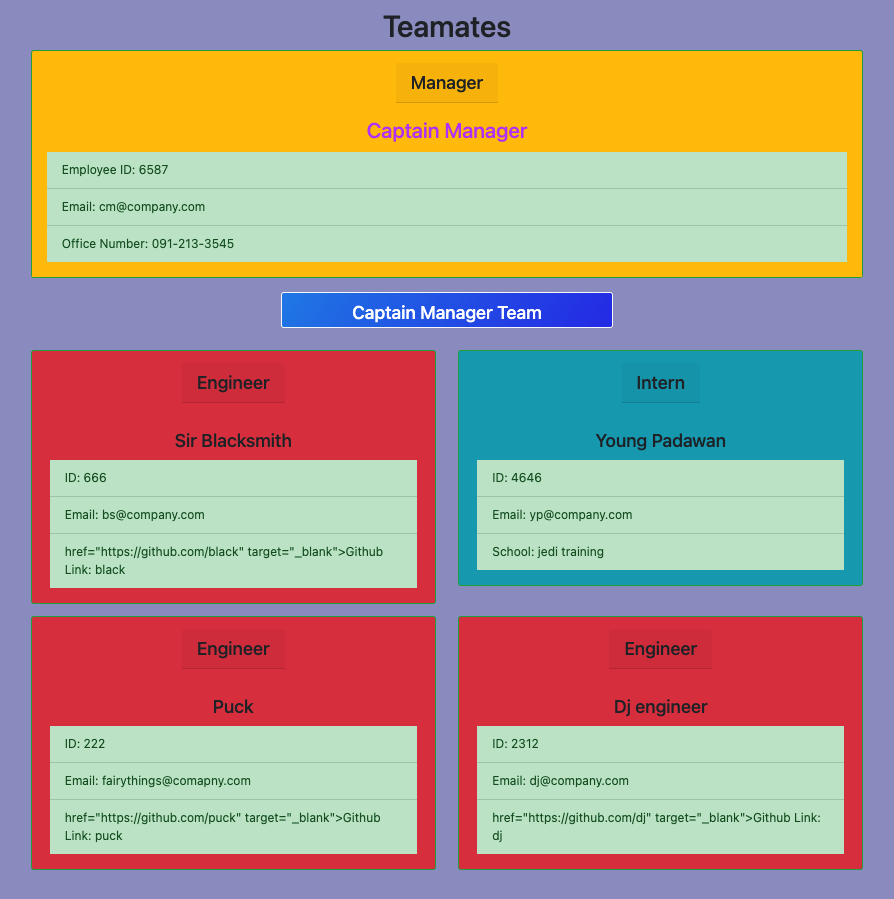
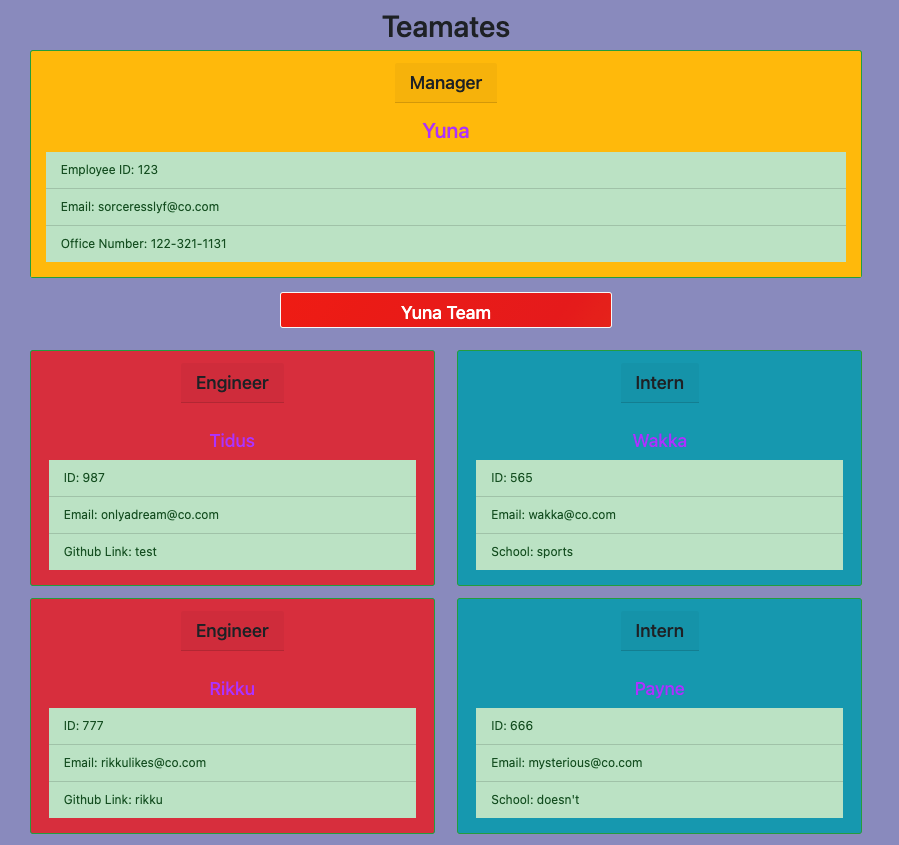
there there

diff --git a/index.html b/index.html
@@ -23,7 +23,7 @@
                 <div class="list-group border-dark list-group-flush">
                     <a class="list-group-item list-group-item-action list-group-item-success">Employee ID: 123</a>
                     <a class="list-group-item list-group-item-action list-group-item-success" href="mailto:sorceresslyf@co.com">Email: sorceresslyf@co.com</a>
-                    <a class="list-group-item list-group-item-action list-group-item-success">Office Number: 310-232-3729</a>
+                    <a class="list-group-item list-group-item-action list-group-item-success">Office Number: 122-321-1131</a>
                 </div>
             </div>
             <div class="rounded wrapper text-white bg-warning bg-gradient d-flex justify-content-around border border-light card-footer">
@@ -40,8 +40,8 @@
                 <div class="card-body bg-danger mt-3 mx-2 px-3">
                     <h4 id="purp" class="card-title text-center">Tidus</h4>
                     <div class="list-group border-dark list-group-flush">
-                        <a class="list-group-item list-group-item-action list-group-item-success">ID:        900</a>
-                        <a class="list-group-item list-group-item-action list-group-item-success" href="mailto:notreal@co.com">Email: notreal@co.com</a><a class="list-group-item list-group-item-action list-group-item-success" href="https://github.com/Test" target="_blank"> Github Link: Test</a>        
+                        <a class="list-group-item list-group-item-action list-group-item-success">ID:        987</a>
+                        <a class="list-group-item list-group-item-action list-group-item-success" href="mailto:onlyadream@co.com">Email: onlyadream@co.com</a><a class="list-group-item list-group-item-action list-group-item-success" href="https://github.com/test" target="_blank"> Github Link: test</a>        
                     </div>
                 </div>        
             </div>
@@ -54,7 +54,7 @@
                 <div class="card-body bg-info mt-3 mx-2 px-3">
                     <h4 id="purp" class="card-title text-center">Wakka</h4>
                     <div class="list-group border-dark list-group-flush">
-                        <a class="list-group-item list-group-item-action list-group-item-success">ID:        123</a>
+                        <a class="list-group-item list-group-item-action list-group-item-success">ID:        565</a>
                         <a class="list-group-item list-group-item-action list-group-item-success" href="mailto:wakka@co.com">Email: wakka@co.com</a><a class="list-group-item list-group-item-action list-group-item-success">School: sports</a>        
                     </div>
                 </div>        
@@ -68,8 +68,8 @@
                 <div class="card-body bg-danger mt-3 mx-2 px-3">
                     <h4 id="purp" class="card-title text-center">Rikku</h4>
                     <div class="list-group border-dark list-group-flush">
-                        <a class="list-group-item list-group-item-action list-group-item-success">ID:        56</a>
-                        <a class="list-group-item list-group-item-action list-group-item-success" href="mailto:rikulikes@co.com">Email: rikulikes@co.com</a><a class="list-group-item list-group-item-action list-group-item-success" href="https://github.com/rikku" target="_blank"> Github Link: rikku</a>        
+                        <a class="list-group-item list-group-item-action list-group-item-success">ID:        777</a>
+                        <a class="list-group-item list-group-item-action list-group-item-success" href="mailto:rikkulikes@co.com">Email: rikkulikes@co.com</a><a class="list-group-item list-group-item-action list-group-item-success" href="https://github.com/rikku" target="_blank"> Github Link: rikku</a>        
                     </div>
                 </div>        
             </div>
@@ -82,8 +82,8 @@
                 <div class="card-body bg-info mt-3 mx-2 px-3">
                     <h4 id="purp" class="card-title text-center">Payne</h4>
                     <div class="list-group border-dark list-group-flush">
-                        <a class="list-group-item list-group-item-action list-group-item-success">ID:        324</a>
-                        <a class="list-group-item list-group-item-action list-group-item-success" href="mailto:hurts@co.com">Email: hurts@co.com</a><a class="list-group-item list-group-item-action list-group-item-success">School: hard nocks</a>        
+                        <a class="list-group-item list-group-item-action list-group-item-success">ID:        666</a>
+                        <a class="list-group-item list-group-item-action list-group-item-success" href="mailto:mysterious@co.com">Email: mysterious@co.com</a><a class="list-group-item list-group-item-action list-group-item-success">School: doesn't</a>        
                     </div>
                 </div>        
             </div>

diff --git a/README.md b/README.md
@@ -37,7 +37,7 @@
 
 ### **- Check out my walkthrough video**
 
-**[vids](https://drive.google.com/file/d/1gTryomKm9NhxWHo9kH_oUFR7zLN2GA7C/view?usp=sharing)**
+**[vids](https://drive.google.com/file/d/1ssUE0sNRIo_ehAnJfsd8PkOrLsVe5LwD/view?usp=sharing)**
 
 ## License
 
